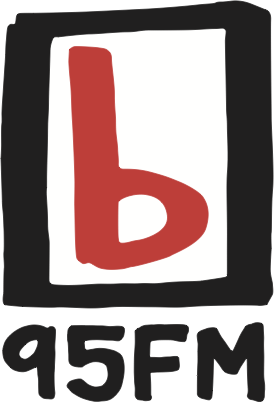
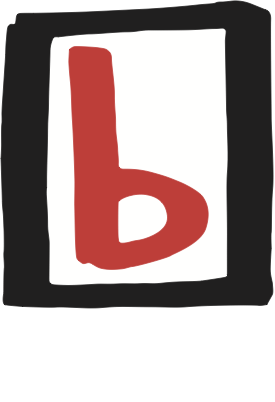
background playing working

Changed region(s): [[0.2327, 0.7761, 0.9891, 1.0], [0.0, 0.806, 0.2036, 1.0]]

diff --git a/index.ios.js b/index.ios.js
@@ -1,37 +1,37 @@
-/**
- * Sample React Native App
- * https://github.com/facebook/react-native
- * @flow
- */
-
 import React, { Component } from 'react';
 import {
   AppRegistry,
   Image,
   StyleSheet,
   Text,
+  TouchableHighlight,
   View
-} from 'react-native';
+} from 'react-native'
 
-import { ReactNativeAudioStreaming, Player } from 'react-native-audio-streaming';
+import { ReactNativeAudioStreaming, Player } from 'react-native-audio-streaming'
 
-const url = "http://streams.95bfm.com/stream95";
-ReactNativeAudioStreaming.pause();
-ReactNativeAudioStreaming.resume();
-ReactNativeAudioStreaming.play(url, {showIniOSMediaCenter: true, showInAndroidNotifications: true});
-ReactNativeAudioStreaming.stop();
+const url = "http://streams.95bfm.com/stream95"
+ReactNativeAudioStreaming.pause()
+ReactNativeAudioStreaming.resume()
+ReactNativeAudioStreaming.play(url, {showIniOSMediaCenter: true, showInAndroidNotifications: true})
+ReactNativeAudioStreaming.stop()
 
 export default class bFMPlayer extends Component {
   render() {
     return (
       <View style={styles.container}>
+      <TouchableHighlight onPress={() => { ReactNativeAudioStreaming.play(url, {showIniOSMediaCenter: true, showInAndroidNotifications: true})}}>
       <Image
-        source={require('./img/bfm.png')}
+        style={styles.button}
+        source={require('./img/bfm_full.png')}
       />
-        <Text style={styles.welcome}>
-          Click below to stream
-        </Text>
-        <Player url={url} />
+      </TouchableHighlight>
+      <TouchableHighlight onPress={() => { ReactNativeAudioStreaming.stop()}}>
+      <Text style={styles.welcome}>
+        Click here to stop
+      </Text>
+      </TouchableHighlight>
+        {/* <Player url={url} /> */}
       </View>
     );
   }
